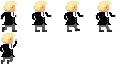
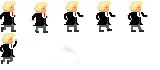
Polished Running Sprites
Added a "Middle Sprite" Where needed

Changed region(s): [[0.1875, 0.0, 0.9375, 0.4857], [0.0, 0.0, 0.1562, 0.9143], [0.4062, 0.7143, 0.4375, 0.7429]]

diff --git a/src/actor.cpp b/src/actor.cpp
@@ -41,7 +41,7 @@ void Actor::update(int elapsed)
             }else{
                 frame++;
             }
-            if(frame==4){
+            if(frame==5){
                 frame=0;
             }
             frameTimer+=150;
